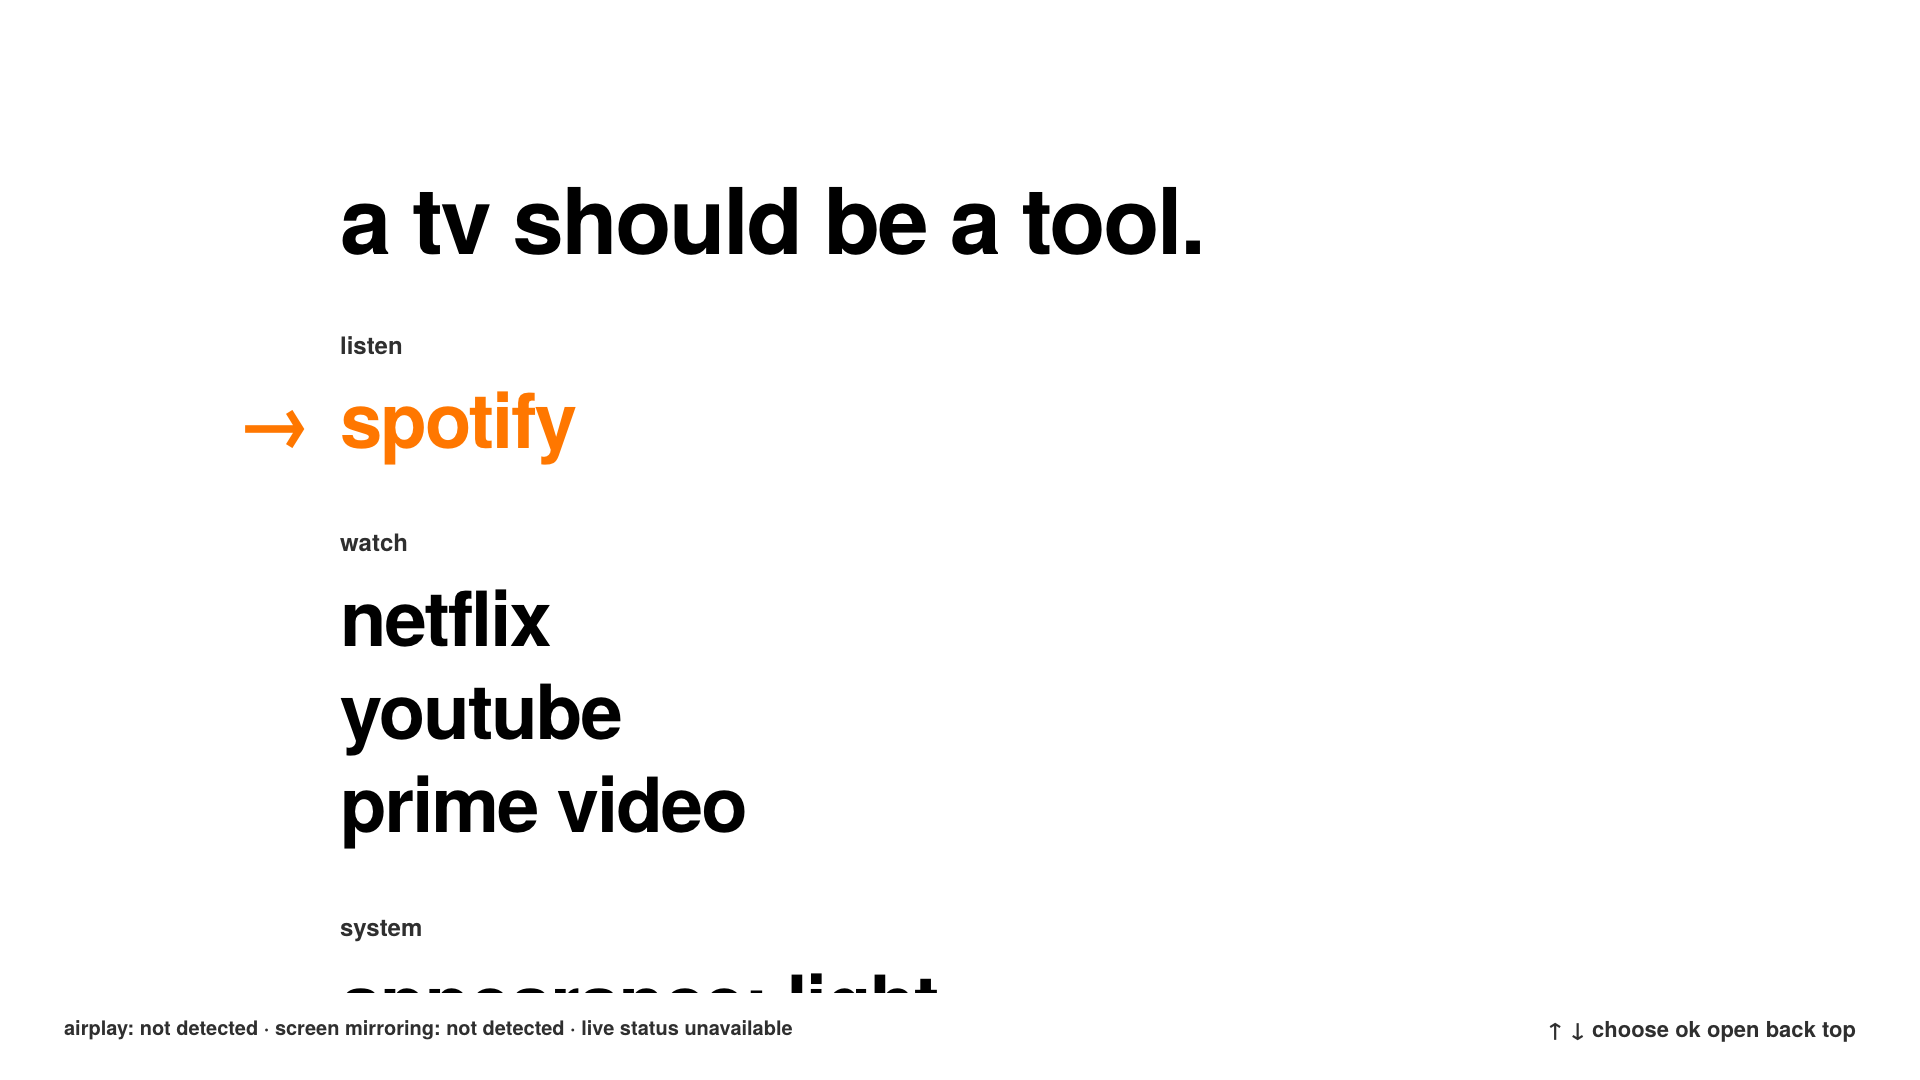
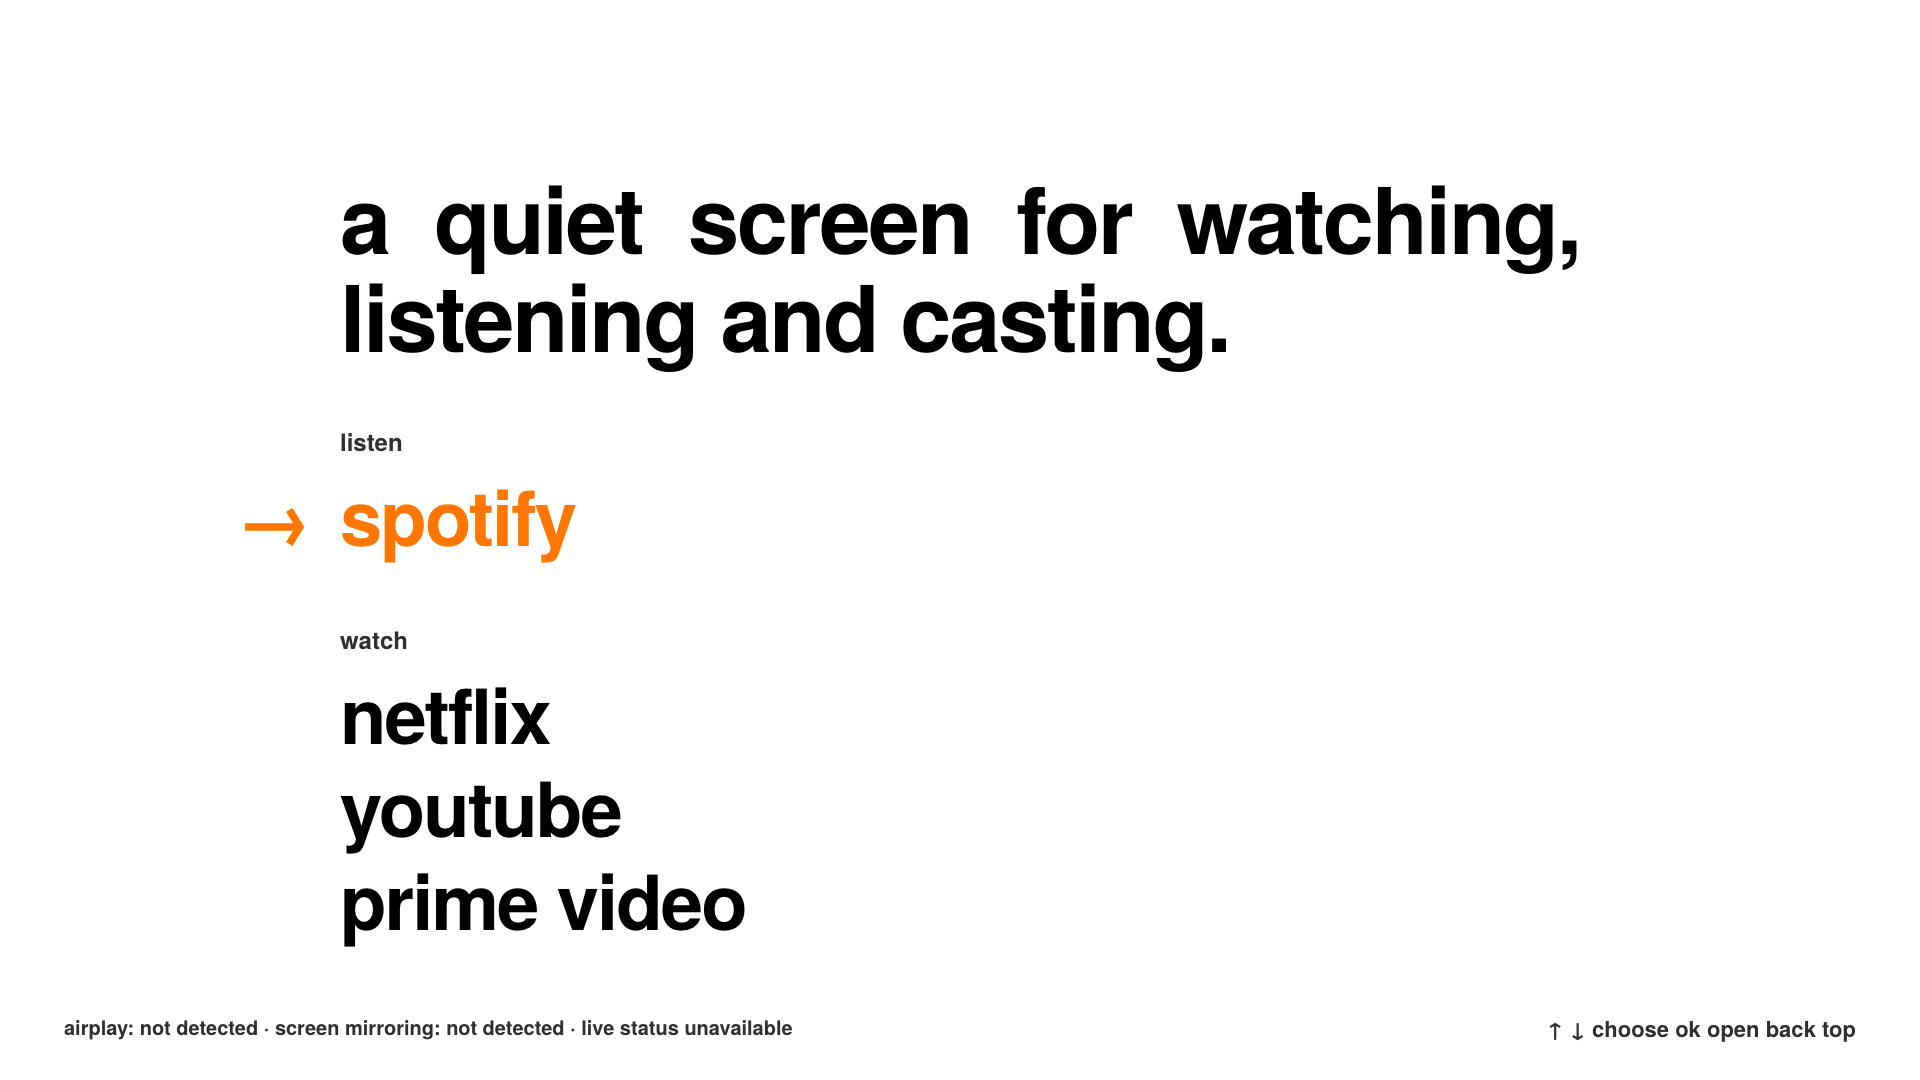
Restore the quiet screen launcher headline

diff --git a/app/index.html b/app/index.html
@@ -16,7 +16,7 @@
     </div>
   </div>
   <div class="page" id="page">
-    <h1>a tv should be a tool.</h1>
+    <h1>a quiet screen for watching, listening and casting.</h1>
     <div id="list"></div>
     <p class="project-note">utility. turn it on. choose something. music, films, whatever’s plugged in. a little sidequest in making a shared screen useful again.</p>
   </div>

diff --git a/.impeccable.md b/.impeccable.md
@@ -6,6 +6,8 @@ with the slim solar remote. They need to open installed streaming apps,
 connected inputs, casting instructions and a few everyday settings quickly.
 
 ### Brand Personality
+Keep the launcher headline: “a quiet screen for watching, listening and casting.”
+The project tagline “a tv should be a tool.” belongs in the README and branding.
 UTILITY — a tv should be a tool. Use lowercase in the TV UI,
 bold editorial type, and direct language. Brutalist structure with minimal
 visual noise; retain the existing Heros font and orange focus accent.
